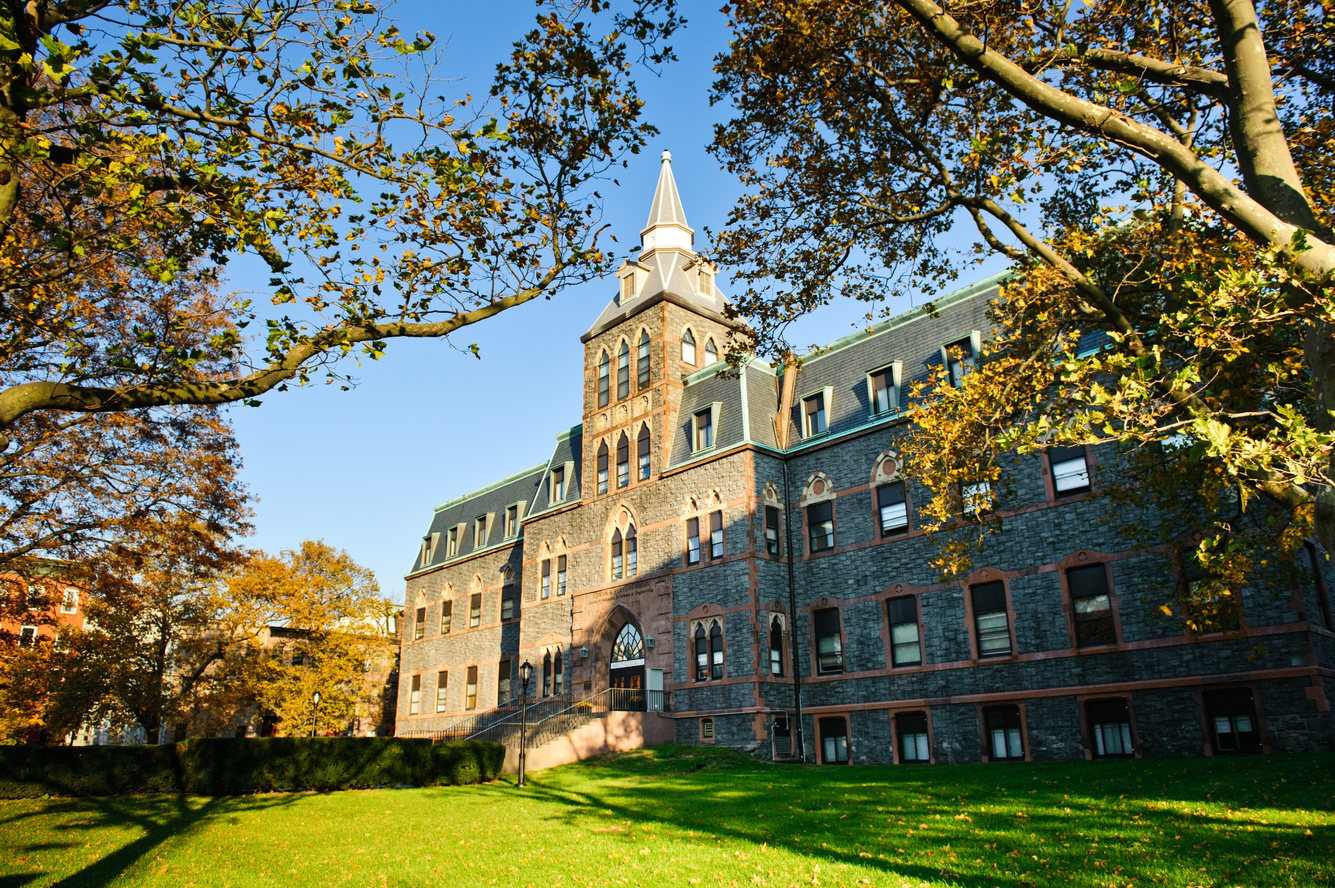
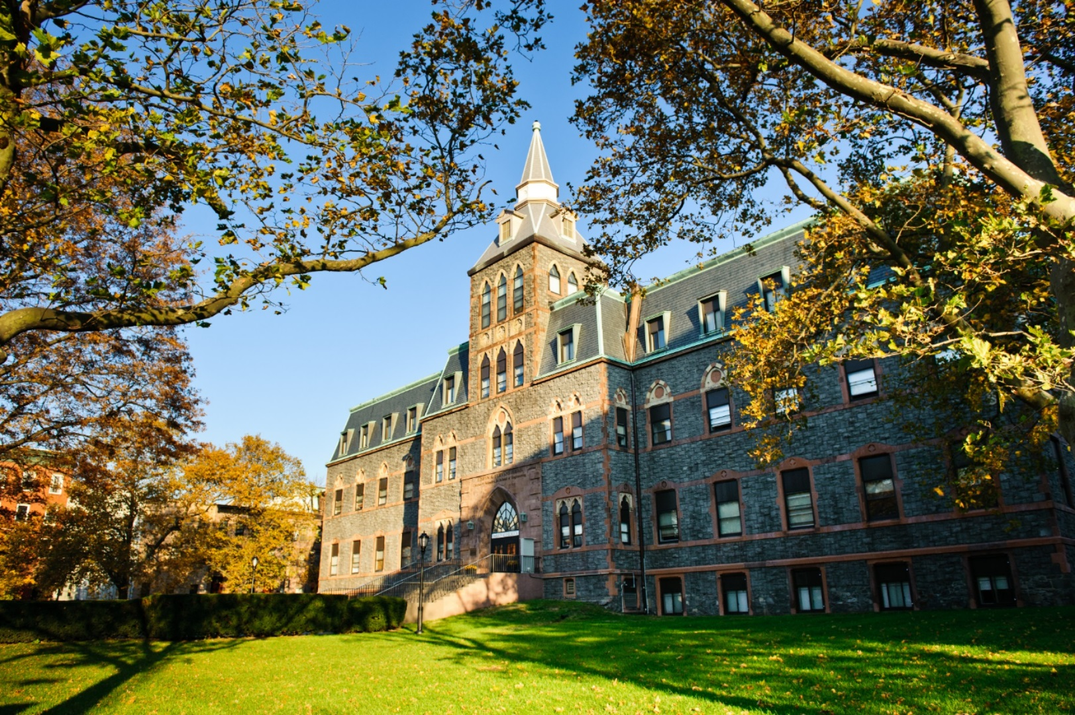
made images smaller, closed a div, and improved performance

diff --git a/index.html b/index.html
@@ -15,20 +15,6 @@
     <script src="https://ajax.googleapis.com/ajax/libs/jquery/1.11.0/jquery.min.js"></script>
     <script src="./js/bootstrap.min.js"></script>
 	<script src="./js/holder.min.js"></script>
-    <script>
-		//this script courtesy of http://pixelcog.github.io/parallax.js
-      $(function(){
-        if (navigator.userAgent.match(/(iPod|iPhone|iPad|Android)/)) {
-          $('#ios-notice').removeClass('hidden');
-          $('.parallax-container').height( $(window).height() * 0.5 | 0 );
-        } else {
-          $(window).resize(function(){
-            var parallaxHeight = Math.max($(window).height() * 0.7, 200) | 0;
-            $('.parallax-container').height(parallaxHeight);
-          }).trigger('resize');
-        }
-      });
-    </script>
     <script src="./js/parallax.min.js"></script>
   </head>
   <body>
@@ -55,9 +41,9 @@
       </div>
     </section>
 		
-    <div class="parallax-container" data-parallax="scroll" data-position="top" data-bleed="10" data-image-src="./img/eas.jpg" data-natural-width="4256" data-natural-height="2832">
+    <div class="parallax-container" data-parallax="scroll" data-position="top" data-bleed="10" data-image-src="./img/eas.jpg"  style="">
 		<div class="container">
-			<h1 style="color: white; font-size: 72px; margin-top: 530px;">About Me</h1>
+			<h1 style="color: white; font-size: 72px; margin-top: 400px;">About Me</h1>
 		</div>
 	</div>
 
@@ -75,19 +61,19 @@
 			<a href="http://www.apo.org"><img src="./img/apo.jpg" class="img-square" style="display:block;margin-left:auto;margin-right:auto;width:140px;height:140px;"/></a>
 			<h4>I am a brother Alpha Phi Omega, Theta Alpha Chapter.  Within my chapter, I hold the position of Webmaster.</h4>
         </div>
-
+      </div>
     </section>
 
-	<div class="parallax-container" data-parallax="scroll" data-bleed="10" data-speed="0.2" data-image-src="./img/rocks.JPG" data-natural-width="5184" data-natural-height="3456">
-		<div class="container">
-			<h1 style="color: white; font-size: 72px; margin-top: 530px;">Interests</h1>
-		</div>
+	<div class="parallax-container" data-parallax="scroll" data-bleed="10" data-speed="0.2" data-image-src="./img/rocks_small.JPG" data-natural-width="1453" data-natural-height="968" style="height: 656px;">
+	  <div class="container">
+		<h1 style="color: white; font-size: 72px; margin-top: 530px;">Interests</h1>
+	  </div>
 	</div>
 	
 	<section>
 	  <div class="container">
         <h2>Software</h2>
-		<h4>In my free time, I enjoy experimenting with game development, artificial intelligence, and Android programming.</h4>
+		<h4>In my free time, I enjoy experimenting with various development environments and technologies.  I have experience in different Linux distributions, including Archlinux, Ubuntu, and Debian.  I've also dabbled in Android programming and Pebble smartwatch application development. </h4>
         <h2>Hobbies</h2>
 		<h4>Outside of software development, I enjoy going on photography trips to New York City, attending concerts, playing computer games, and, most recently, cooking.  I'm also interested in health and fitness.</h4>
         <h2>Service</h2>
@@ -95,7 +81,7 @@
 	  </div>	
     </section>
 	
-    <div class="parallax-container" data-parallax="scroll" data-bleed="10" data-speed="0.2" data-image-src="./img/computer-hacker.jpg" data-natural-width="1400" data-natural-height="900">
+    <div class="parallax-container" data-parallax="scroll" data-bleed="0" data-speed="0.2" data-image-src="./img/computer-hacker.jpg" data-natural-width="1698" data-natural-height="1131" style="height: 696px;">
 		<div class="container">
 			<h1 style="color: white; font-size: 72px; margin-top: 530px;">Projects</h1>
 		</div>

diff --git a/resume/index.html b/resume/index.html
@@ -14,20 +14,7 @@
     <![endif]-->
     <script src="https://ajax.googleapis.com/ajax/libs/jquery/1.11.0/jquery.min.js"></script>
     <script src="../js/bootstrap.min.js"></script>
-    <script>
-		//this script courtesy of http://pixelcog.github.io/parallax.js
-      $(function(){
-        if (navigator.userAgent.match(/(iPod|iPhone|iPad|Android)/)) {
-          $('#ios-notice').removeClass('hidden');
-          $('.parallax-container').height( $(window).height() * 0.5 | 0 );
-        } else {
-          $(window).resize(function(){
-            var parallaxHeight = Math.max($(window).height() * 0.7, 200) | 0;
-            $('.parallax-container').height(parallaxHeight);
-          }).trigger('resize');
-        }
-      });
-    </script>
+	<script src="./js/holder.min.js"></script>
     <script src="../js/parallax.min.js"></script>
   </head>
   <body>
@@ -47,14 +34,10 @@
 			<a href="https://www.linkedin.com/in/mkonstantinou" class="btn btn-default">LinkedIn</a>
 		</div>
 		
-		<!--
-        <a href="https://github.com/pixelcog/parallax.js/archive/v1.3.1.zip" class="btn btn-default download-link">Download Parallax.js v1.3.1</a>
-        <a href="https://github.com/pixelcog/parallax.js/" class="btn btn-default">View on GitHub</a>
-		-->
       </div>
     </section>
 		
-    <div class="parallax-container" data-parallax="scroll" data-position="top" data-bleed="10" data-image-src="../img/eas.jpg" data-natural-width="4256" data-natural-height="2832">
+    <div class="parallax-container" data-parallax="scroll" data-position="top" data-bleed="10" data-image-src="../img/eas.jpg" data-natural-width="1623" data-natural-height="1080">
 		<div class="container">
 			<h1 style="color: white; font-size: 72px; margin-top: 50%;">Education</h1>
 		</div>
@@ -67,7 +50,7 @@
         
 		<h3 id="header2">Major Courses</h3>
         <p></p>
-
+      </div>
     </section>
 
     <div class="parallax-container" data-parallax="scroll" data-bleed="10" data-speed="0.2" data-image-src="../img/computer-hacker.jpg" data-natural-width="1400" data-natural-height="900">
